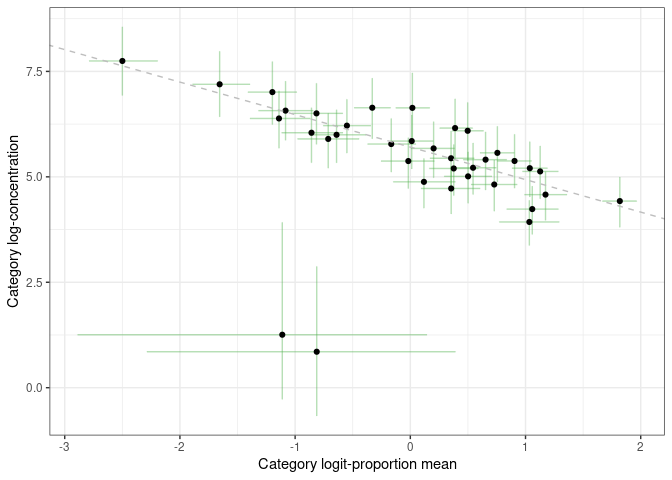
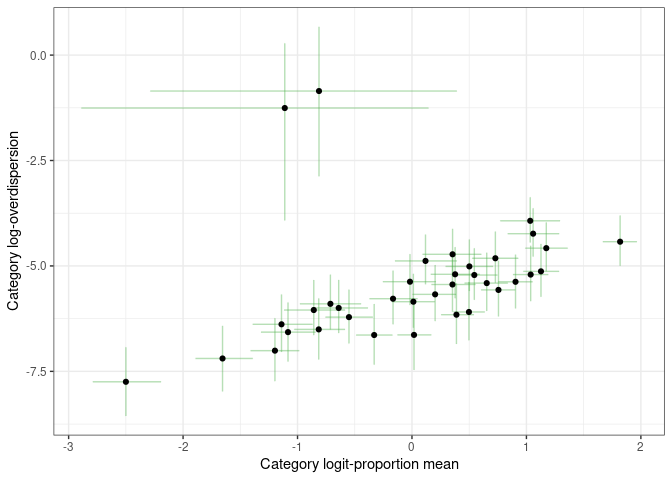
update readme

diff --git a/README.md b/README.md
@@ -59,7 +59,7 @@ res =
 
     ## sccomp says: outlier-free model fitting - step 3/3 [ETA: ~20s]
 
-Outliers identified
+## Visualise data + inference
 
 ``` r
 data_for_plot = 
@@ -88,7 +88,7 @@ data_for_plot =
 
 ![](man/figures/unnamed-chunk-8-1.png)<!-- -->
 
-Credible intervals
+## Visualise credible intervals of slope parameter
 
 ``` r
 res |>
@@ -107,8 +107,7 @@ res |>
 
 ![](man/figures/unnamed-chunk-9-1.png)<!-- -->
 
-Relation between proportion mean and concentration (variability). The
-regression line is inferred by sccomp.
+## Visualise relation between proportion mean and overdispersion. The regression line is inferred by sccomp.
 
 ``` r
 mean_concentration_association = res %>% attr("mean_concentration_association")
@@ -116,17 +115,19 @@ mean_concentration_association = res %>% attr("mean_concentration_association")
 res |> 
   unnest(composition_CI) |>
   unnest(concentration) |> 
-  ggplot(aes(`.median_(Intercept)`, mean)) + 
-  geom_errorbar(aes(ymin = `2.5%`, ymax=`97.5%`), color="#4DAF4A", alpha = 0.4) +
+  ggplot(aes(`.median_(Intercept)`, -mean)) + 
+  geom_errorbar(aes(ymin = -`2.5%`, ymax=-`97.5%`), color="#4DAF4A", alpha = 0.4) +
   geom_errorbar(aes(xmin = `.lower_(Intercept)`, xmax=`.upper_(Intercept)`), color="#4DAF4A", alpha = 0.4) +
   geom_point() +
   geom_abline(intercept = mean_concentration_association[1], slope = mean_concentration_association[2], linetype = "dashed", color="grey") +
   xlab("Category logit-proportion mean") +
-  ylab("Category log-concentration") +
+  ylab("Category log-overdispersion") +
     theme_bw() 
 ```
 
 ![](man/figures/unnamed-chunk-10-1.png)<!-- -->
+
+## Posterior predictive check
 
 We can perform posterior predictive checks of the model. This gives
 information of how the model “interprets trends” in the data, and gives
@@ -176,6 +177,8 @@ ggplot() +
 ```
 
 ![](man/figures/unnamed-chunk-11-1.png)<!-- -->
+
+## Visualisation of the MCMC chains from the posterior distribution
 
 It is possible to directly evaluate the posterior distribution. In this
 example we plot the Monte Carlo chain for the slope parameter of the
